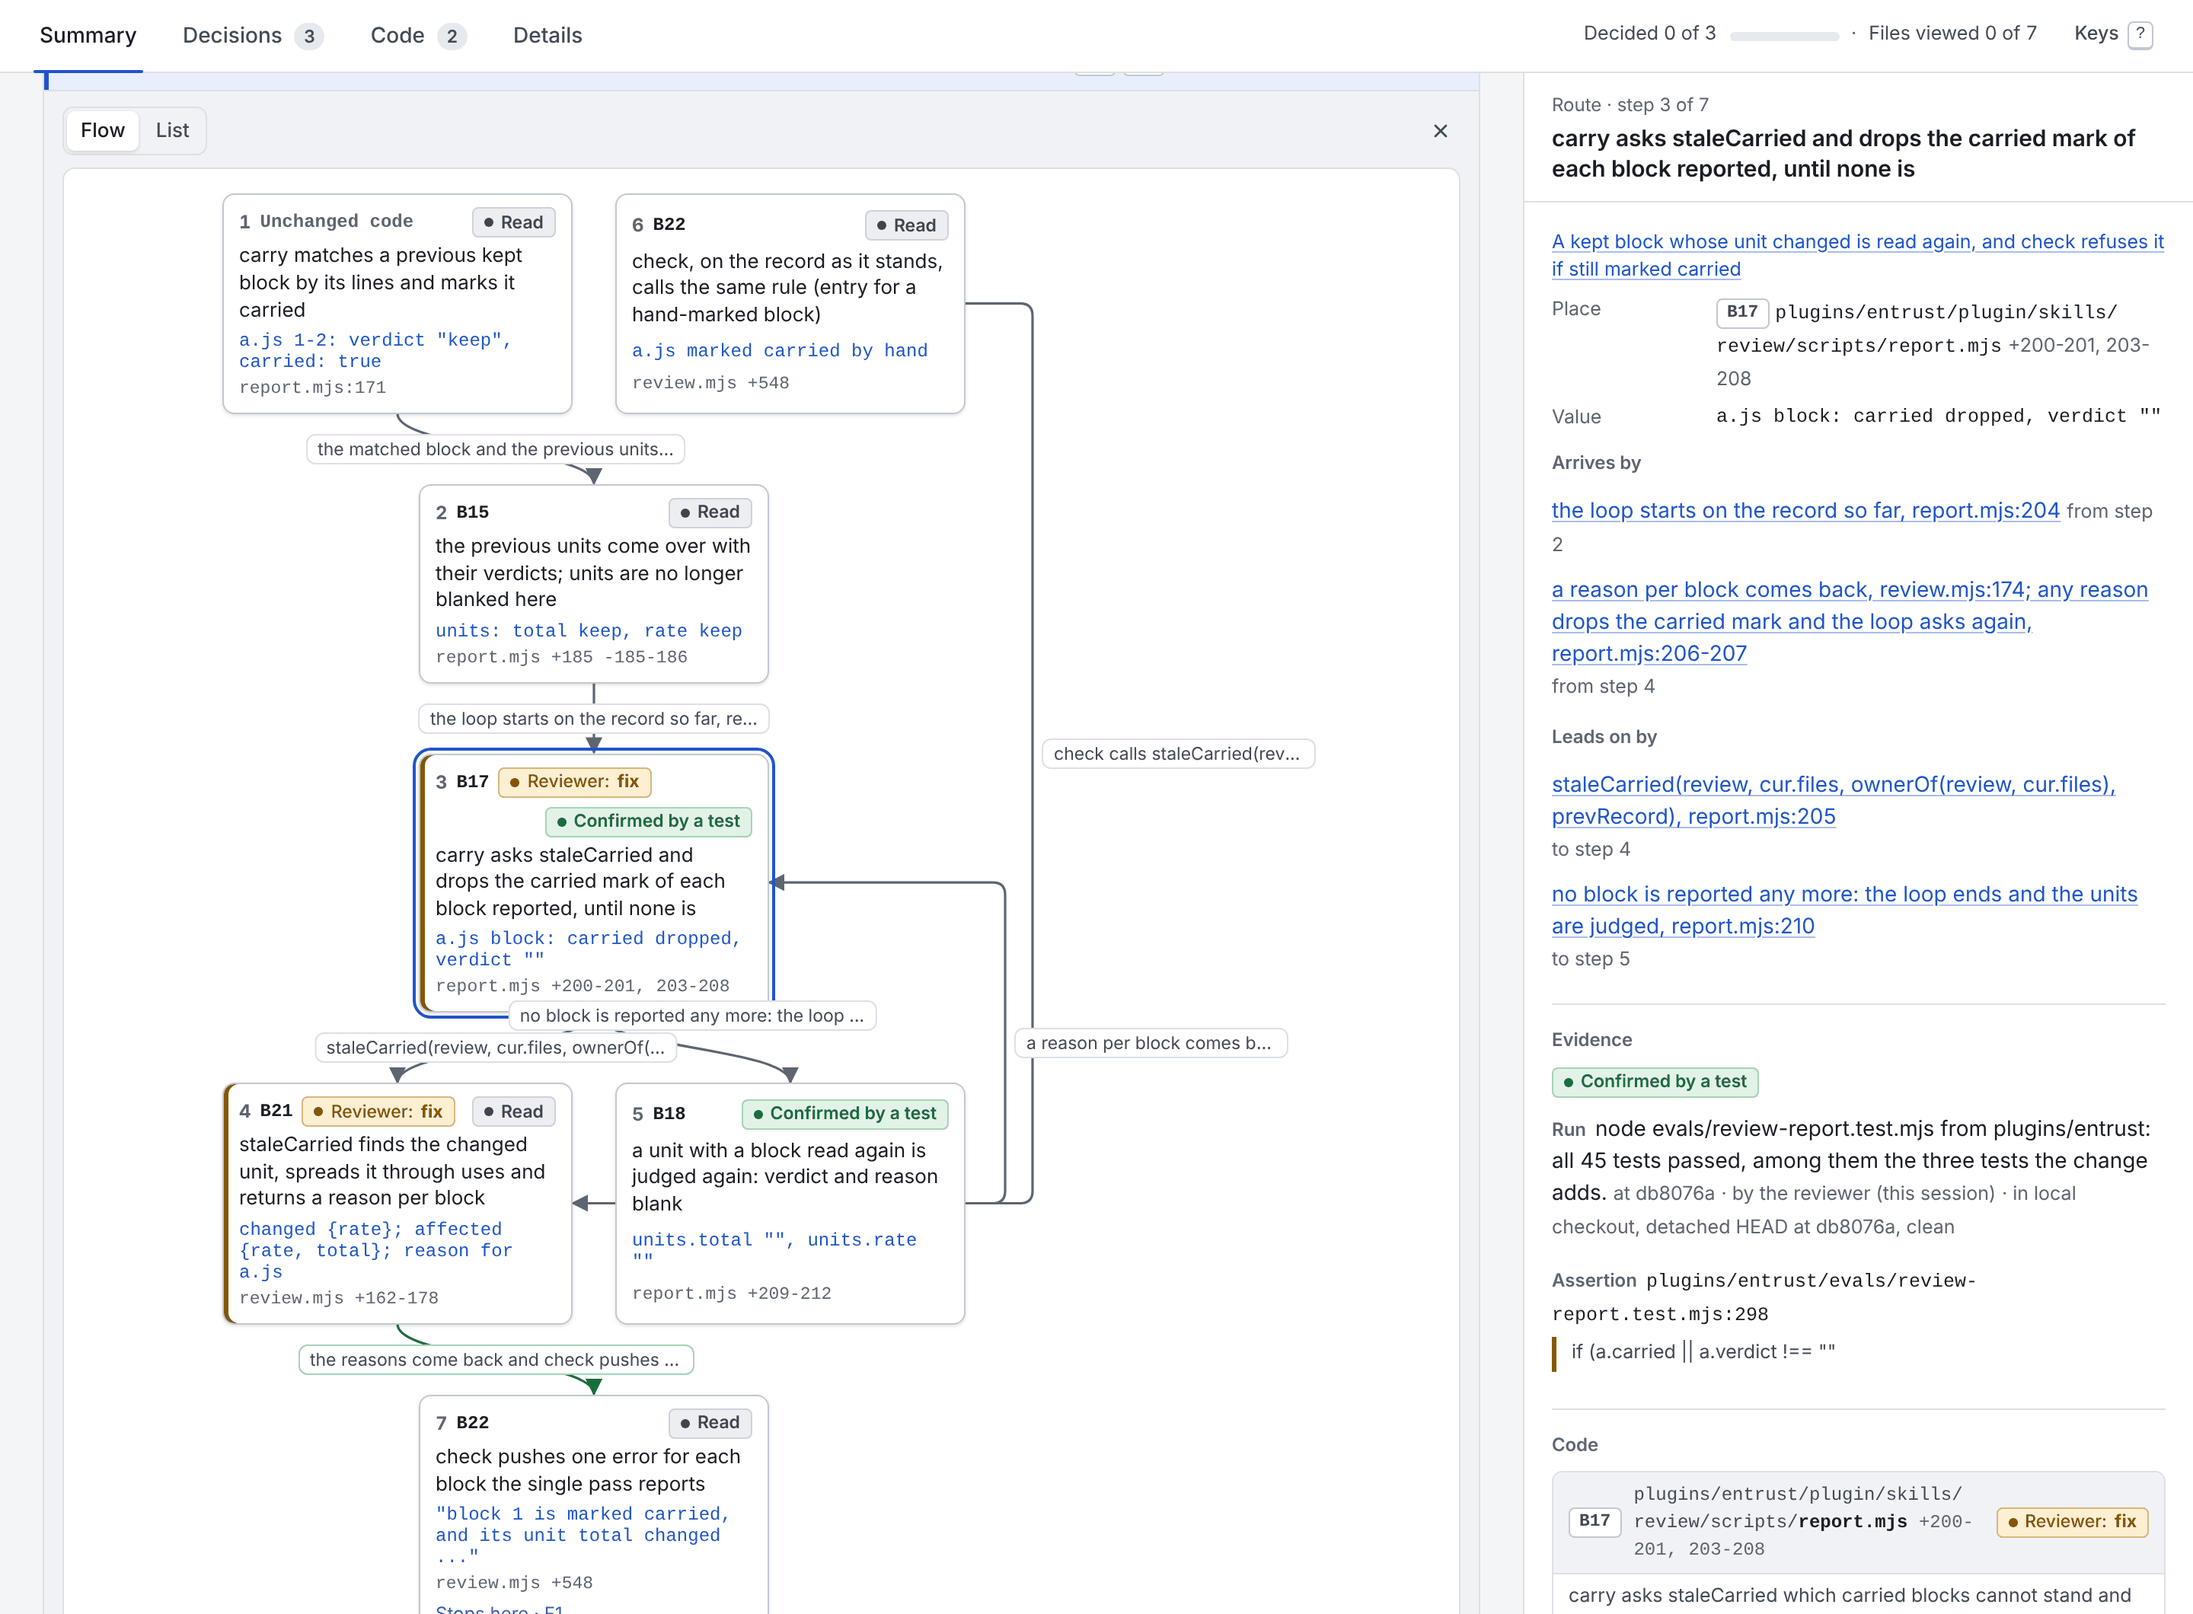
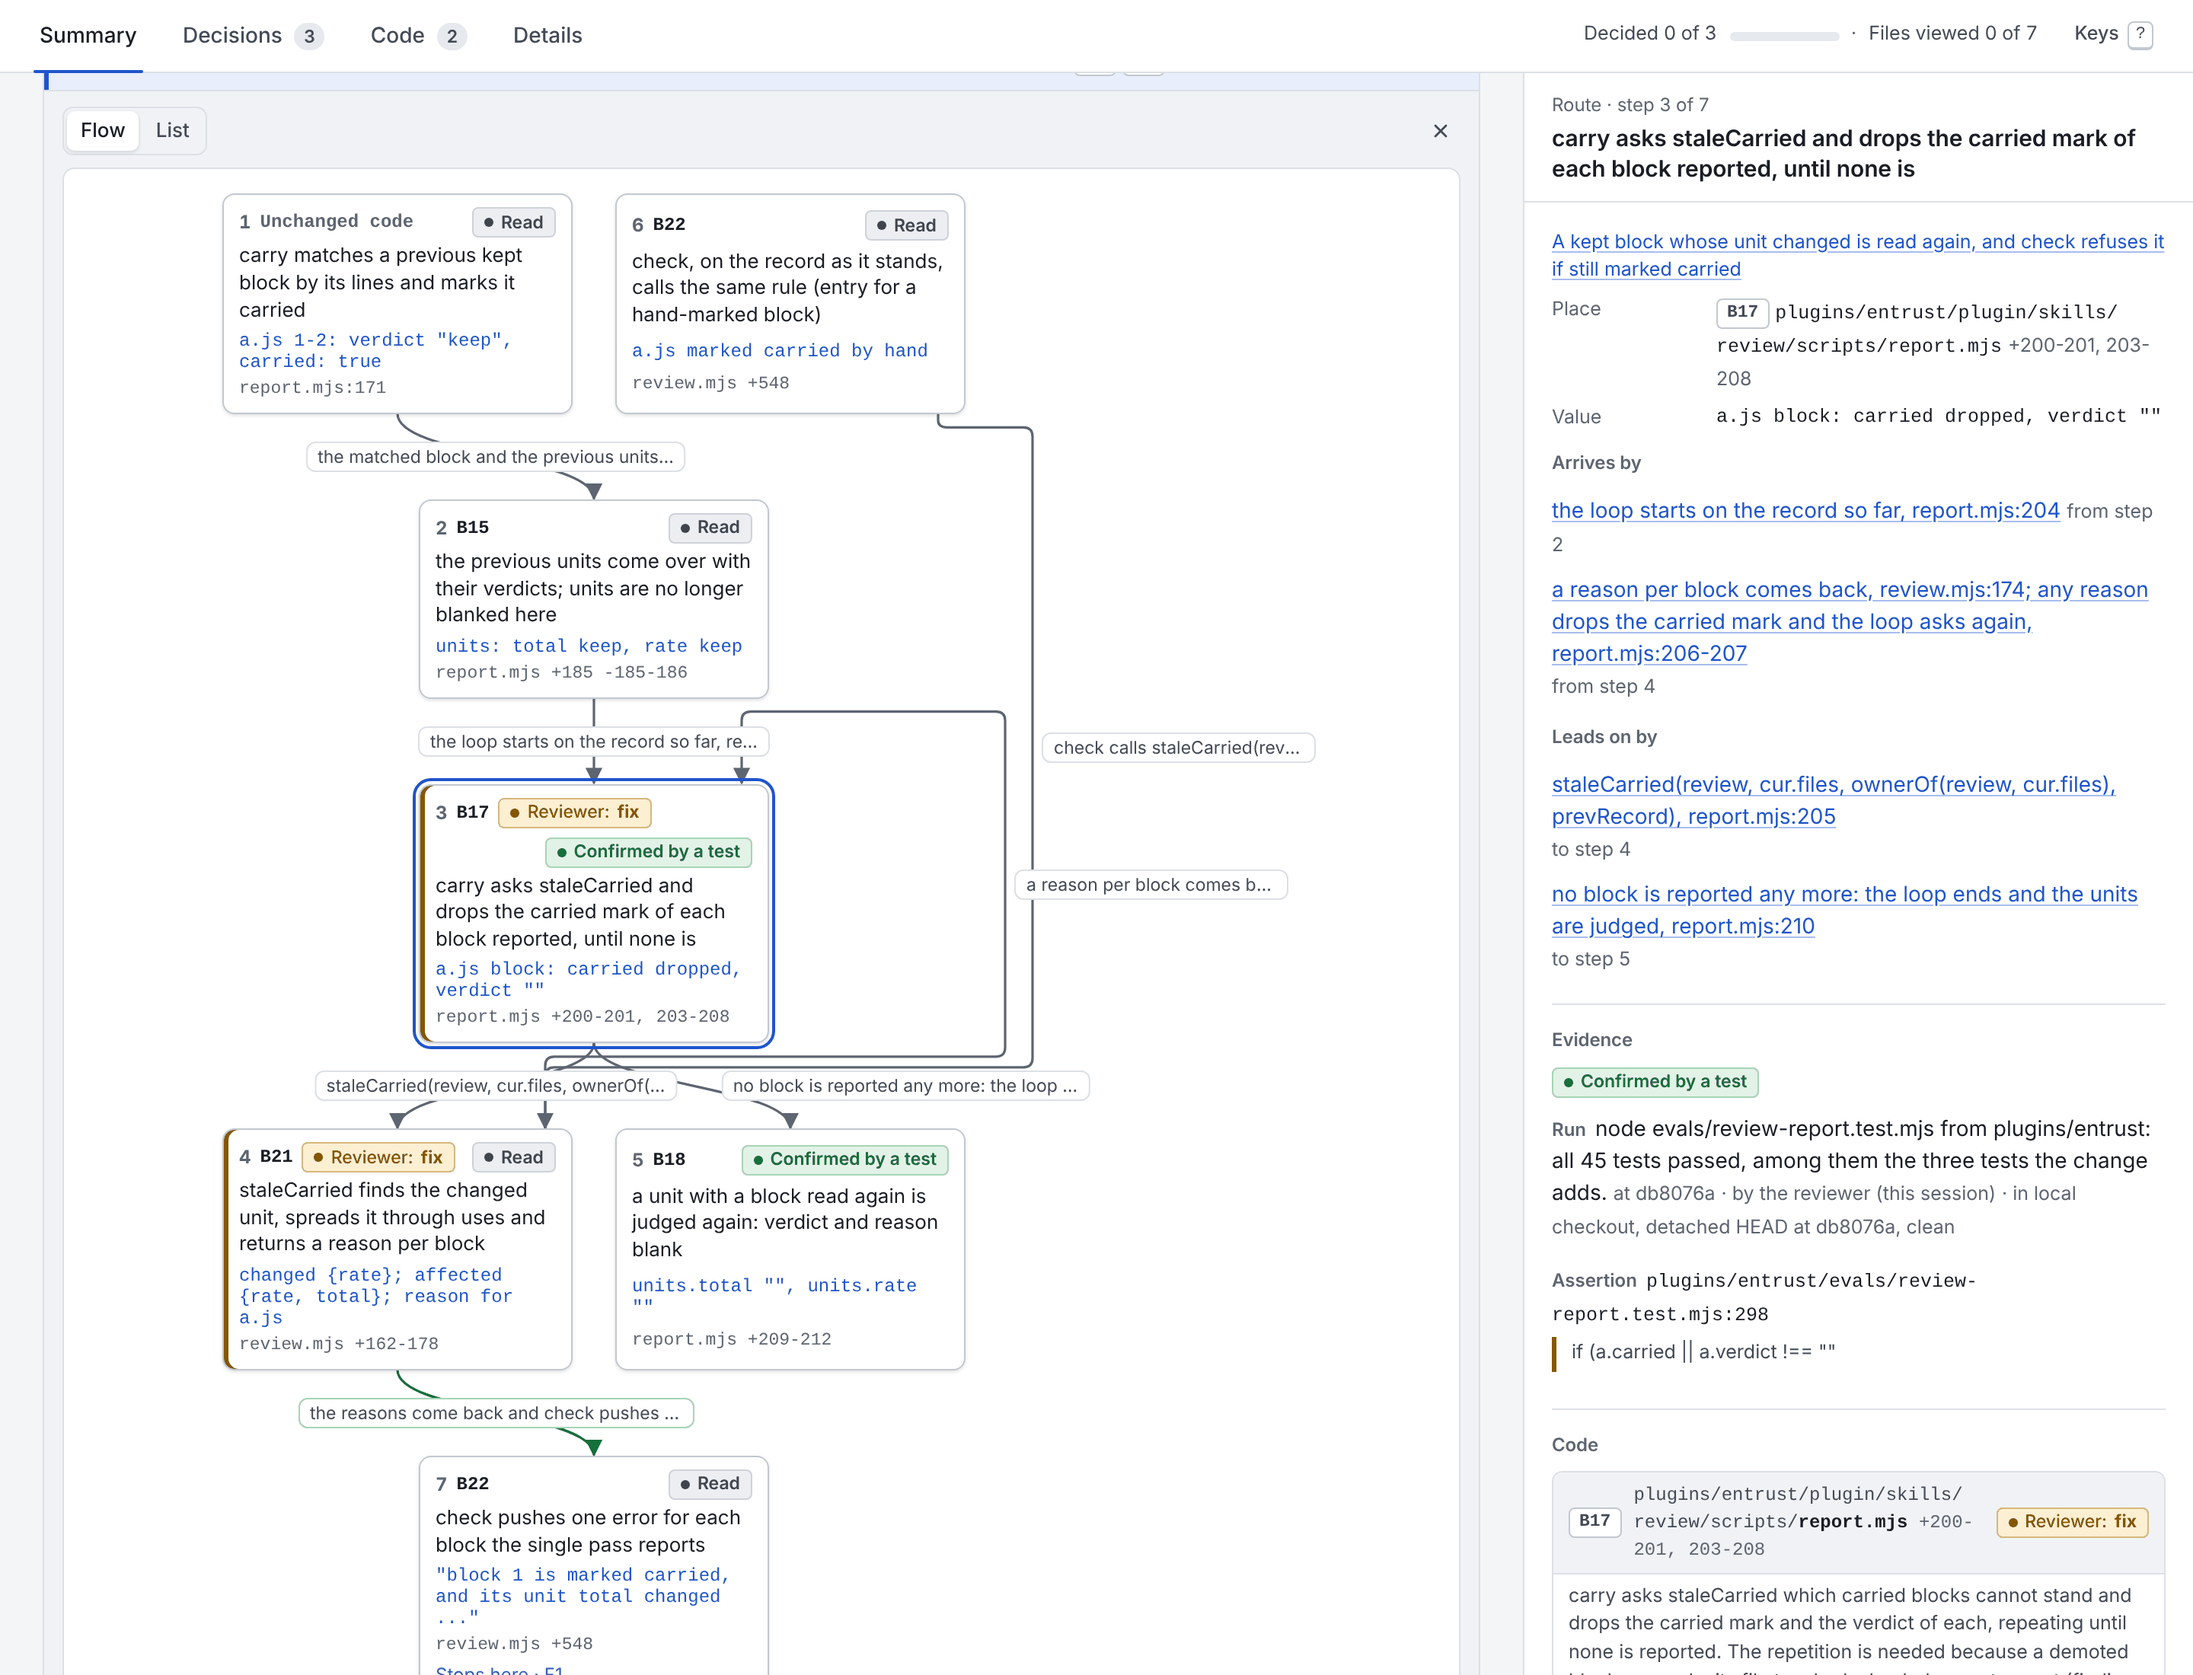
entrust:review: run a flow's edges that skip a row or go back only through the empty gaps, from a step's top or bottom into its target's top, and a state's loop over its own top, so no edge touches a step but its two ends — on the first real review 6→4 read as 6→5 — with a test that samples every ed

diff --git a/plugins/entrust/plugin/skills/review/scripts/page/runtime.js b/plugins/entrust/plugin/skills/review/scripts/page/runtime.js
@@ -643,41 +643,59 @@ function drawFlow(i) {
   const rect = (k) => { const e = $(`.flow-n[data-k="${k}"]`, canvas).getBoundingClientRect(); return { l: e.left - box.left, t: e.top - box.top, r: e.right - box.left, b: e.bottom - box.top, cx: (e.left + e.right) / 2 - box.left, cy: (e.top + e.bottom) / 2 - box.top }; };
   const own = (l) => testedHere(l) ? "ok" : l.question !== null ? "q" : "plain";
   const cls = (e) => { const cs = e.js.map((j) => own(r.links[j])); return !cs.length ? "plain" : cs.every((c) => c === "ok") ? "ok" : cs.includes("ok") ? "mixed" : cs.includes("q") ? "q" : "plain"; };
-  // (3) an edge that skips a row, goes back or stays runs at the side, beyond every step in the rows it spans
+  // An edge between neighbouring rows runs down the gap between them. One that skips a row or goes back runs through
+  // the empty gaps only: out of its step's top or bottom, along the gap, down or up beyond every step in the rows it
+  // spans, along the gap above its target and into the target's top — so it touches no step but its two ends and can
+  // never seem to lead into a step it passes. A state that stays loops over its own top.
   const edges = flowEdges(r), rank = [];
   flowRows(r, edges).forEach((row, x) => row.forEach((k) => { rank[k] = x; }));
-  const aside = (e) => e.back || rank[e.to] - rank[e.from] > 1;
-  // room at the right for the edges at the side and their words
-  canvas.style.paddingRight = edges.some((e) => aside(e) || e.self) ? `${200 + 18 * edges.filter(aside).length}px` : "72px";
-  const nodes = $$(".flow-n", canvas).map((el) => ({ k: +el.dataset.k, ...rect(+el.dataset.k) }));
+  const aside = (e) => !e.self && (e.back || rank[e.to] - rank[e.from] > 1);
+  canvas.style.paddingRight = edges.some(aside) ? `${200 + 18 * edges.filter(aside).length}px` : "72px";
+  canvas.style.paddingTop = edges.some((e) => e.self || (aside(e) && rank[e.to] === 0)) ? "44px" : "";
+  const nodes = $$(".flow-n", canvas).map((el) => ({ k: +el.dataset.k, ...rect(+el.dataset.k) })), rowTop = [], rowBottom = [];
+  for (const nd of nodes) { rowTop[rank[nd.k]] = Math.min(rowTop[rank[nd.k]] ?? Infinity, nd.t); rowBottom[rank[nd.k]] = Math.max(rowBottom[rank[nd.k]] ?? -Infinity, nd.b); }
   const reach = (e) => Math.max(...nodes.filter((nd) => rank[nd.k] >= Math.min(rank[e.from], rank[e.to]) && rank[nd.k] <= Math.max(rank[e.from], rank[e.to])).map((nd) => nd.r));
+  // the gap above row g, from the row before's bottom (or the canvas's top) to the row's top, in lanes from its top
+  const lanes = [], lane = (g) => { const top = g === 0 ? 0 : rowBottom[g - 1], n = lanes[g] = (lanes[g] ?? -1) + 1; return Math.min(rowTop[g] - 6, top + 9 + 7 * n); };
+  const portOut = [], portIn = [], port = (list, k, nd) => nd.r - 18 - 14 * (list[k] = (list[k] ?? -1) + 1);
+  const ortho = (pts) => {
+    let d = `M${pts[0][0]},${pts[0][1]}`;
+    for (let k = 1; k < pts.length - 1; k++) {
+      const [px, py] = pts[k - 1], [cx, cy] = pts[k], [nx, ny] = pts[k + 1], q = (a, b) => Math.sign(b - a) * Math.min(6, Math.abs(b - a) / 2);
+      d += ` L${cx - q(px, cx)},${cy - q(py, cy)} Q${cx},${cy} ${cx + q(cx, nx)},${cy + q(cy, ny)}`;
+    }
+    return `${d} L${pts.at(-1)[0]},${pts.at(-1)[1]}`;
+  };
   let side = 0, paths = "", labels = "";
   for (const e of edges) {
     const a = rect(e.from), b = rect(e.to), c = cls(e);
-    let d, x, y;
-    if (e.self) { d = `M${a.r},${a.cy - 10} C${a.r + 40},${a.cy - 30} ${a.r + 40},${a.cy + 30} ${a.r},${a.cy + 10}`; x = a.r + 34; y = a.cy; }
+    let d, x, y, centred = true;
+    // a state that stays loops over the left of its top, clear of the edges that leave and enter at its middle and right
+    if (e.self) { const x1 = a.l + 22, x2 = a.l + 52; d = `M${x1},${a.t} C${x1},${a.t - 30} ${x2},${a.t - 30} ${x2},${a.t}`; x = (x1 + x2) / 2; y = a.t - 30; }
     else if (aside(e)) {
-      const sx = reach(e) + 26 + 18 * side++, v = Math.sign(b.cy - a.cy) || 1, q = 8;
-      d = `M${a.r},${a.cy} L${sx - q},${a.cy} Q${sx},${a.cy} ${sx},${a.cy + v * q} L${sx},${b.cy - v * q} Q${sx},${b.cy} ${sx - q},${b.cy} L${b.r},${b.cy}`; x = sx; y = (a.cy + b.cy) / 2;
+      const sx = reach(e) + 26 + 18 * side++, ex = port(portOut, e.from, a), tx = port(portIn, e.to, b);
+      const out = e.back ? [ex, a.t] : [ex, a.b], y1 = e.back ? lane(rank[e.from]) : lane(rank[e.from] + 1), y2 = lane(rank[e.to]);
+      d = ortho([out, [ex, y1], [sx, y1], [sx, y2], [tx, y2], [tx, b.t]]); x = sx; y = (y1 + y2) / 2; centred = false;
     }
     else { const dy = (b.t - a.b) / 2; d = `M${a.cx},${a.b} C${a.cx},${a.b + dy} ${b.cx},${b.t - dy} ${b.cx},${b.t}`; x = (a.cx + b.cx) / 2; y = (a.b + b.t) / 2; }
-    paths += `<path class="fe ${c}" d="${d}" marker-end="url(#fa-${i}-${c})"/>`;
+    paths += `<path class="fe ${c}" d="${d}" data-from="${e.from}" data-to="${e.to}" marker-end="url(#fa-${i}-${c})"/>`;
     const via = e.js.length ? r.links[e.js[0]].via : r.steps[e.to].via;
     if (!via) continue;
-    // words on an edge at the side, or on a loop, start at its line instead of centring on it, so they cover no step
-    const words = `${via.length > 42 ? via.slice(0, 40) + "…" : via}${e.js.length > 1 ? ` · +${e.js.length - 1}` : ""}`, at = `left:${x}px;top:${y}px`, sideCls = e.self || aside(e) ? " side" : "";
+    // words on an edge at the side start at its line instead of centring on it, so they cover no step
+    const words = `${via.length > 42 ? via.slice(0, 40) + "…" : via}${e.js.length > 1 ? ` · +${e.js.length - 1}` : ""}`, at = `left:${x}px;top:${y}px`, sideCls = centred ? "" : " side";
     labels += e.js.length ? `<button class="flow-lbl${sideCls} ${own(r.links[e.js[0]])}" data-act="flow-link" data-route="${i}" data-j="${e.js[0]}" style="${at}" title="${esc(via)}" aria-current="${e.js.some((j) => S.sel.summary === `route:${i}:l:${j}`)}">${esc(words)}</button>`
       : `<span class="flow-lbl${sideCls}" style="${at}" title="${esc(via)}">${esc(words)}</span>`;
   }
   svgEl.setAttribute("width", canvas.scrollWidth); svgEl.setAttribute("height", canvas.scrollHeight);
   svgEl.innerHTML = `<defs>${["plain", "ok", "mixed", "q"].map((c) => `<marker id="fa-${i}-${c}" viewBox="0 0 10 10" refX="9" refY="5" markerWidth="7" markerHeight="7" orient="auto-start-reverse"><path class="fm ${c}" d="M0,0 L10,5 L0,10 z"/></marker>`).join("")}</defs>${paths}`;
   canvas.insertAdjacentHTML("beforeend", labels);
-  // a label keeps off the steps and off the labels placed before it
+  // a label keeps off the steps and off the labels placed before it: moved up or down a little, then along its gap
   const placed = $$(".flow-n", canvas).map((el) => el.getBoundingClientRect());
   for (const el of $$(".flow-lbl", canvas)) {
-    const top = parseFloat(el.style.top), clear = (r) => !placed.some((p) => r.left < p.right && r.right > p.left && r.top < p.bottom && r.bottom > p.top);
-    for (const dy of [0, -21, 21, -11, 11, -42, 42]) { el.style.top = `${top + dy}px`; if (clear(el.getBoundingClientRect())) break; }
-    if (!clear(el.getBoundingClientRect())) el.style.top = `${top}px`;
+    const top = parseFloat(el.style.top), left = parseFloat(el.style.left), clear = (r) => !placed.some((p) => r.left < p.right && r.right > p.left && r.top < p.bottom && r.bottom > p.top);
+    const xs = el.classList.contains("side") ? [0, 40, 80] : [0, -70, 70, -140, 140], moves = xs.flatMap((dx) => [0, -12, 12, -22, 22].map((dy) => [dx, dy]));
+    const fits = moves.find(([dx, dy]) => { el.style.left = `${left + dx}px`; el.style.top = `${top + dy}px`; return clear(el.getBoundingClientRect()); }) ?? [0, 0];
+    el.style.left = `${left + fits[0]}px`; el.style.top = `${top + fits[1]}px`;
     placed.push(el.getBoundingClientRect());
   }
 }

diff --git a/plugins/entrust/plugin/skills/review/scripts/page/page.css b/plugins/entrust/plugin/skills/review/scripts/page/page.css
@@ -219,7 +219,7 @@ li.route-flow { border-top: 1px solid var(--border); padding: 10px 12px 12px; ba
 .flow-head { display: flex; align-items: center; gap: 10px; }
 .flow-head .x { margin-left: auto; }
 .flow-scroll { overflow-x: auto; min-width: 0; border: 1px solid var(--border); border-radius: 8px; background: var(--surface); }
-.flow-canvas { position: relative; display: flex; flex-direction: column; gap: 46px; padding: 16px 72px 16px 16px; min-width: max-content; }
+.flow-canvas { position: relative; display: flex; flex-direction: column; gap: 56px; padding: 16px 72px 16px 16px; min-width: max-content; }
 .flow-row { display: flex; gap: 28px; justify-content: center; }
 .flow-n { appearance: none; position: relative; z-index: 1; display: grid; gap: 4px; width: 230px; text-align: left; font: inherit; color: var(--text);
   background: var(--surface); border: 1px solid var(--border-strong); border-radius: 8px; padding: 8px 10px 9px; cursor: pointer; box-shadow: var(--shadow); }

diff --git a/plugins/entrust/CHANGELOG.md b/plugins/entrust/CHANGELOG.md
@@ -35,9 +35,10 @@ forensics remain in the repository references and release notes.
 ### Flows on the page
 
 - A route opens under its row in Summary › How it works as a flow the page lays out from the record's order and
-  links: each step in a row below the steps that lead to it; a link that skips a row or goes back runs at the side,
-  beyond every step it passes; a state that stays is a loop; each link's words sit on its edge, kept apart from the
-  others. An edge of several triggers is green only when every one is confirmed by a test on this code, dotted when
+  links: each step in a row below the steps that lead to it; a link that skips a row or goes back runs through the
+  empty gaps between rows and beside them, from its step's top or bottom into its target's top, so no edge touches a
+  step but its own two; a state that stays loops over its own top; each link's words sit on its edge, clear of the
+  steps and of each other. An edge of several triggers is green only when every one is confirmed by a test on this code, dotted when
   some are. Selecting a step shows beside it its place, value, code — the block's excerpt
   or the quoted line of unchanged code — and its evidence: read, or confirmed by a test with its run, who ran it and
   where, and the quoted assertion, or tested on other code when the run was not on the reviewed head; what was found

diff --git a/plugins/entrust/research/2026-11-28-review-flows/README.md b/plugins/entrust/research/2026-11-28-review-flows/README.md
@@ -82,8 +82,10 @@ fixed in advance: one reviewer, no checking agents, the full record and page, an
 - a run on other code was shown as tested here;
 - a `read` statement was listed as a run.
 
-**Still open.** An edge drawn at the side enters its step from the right, so it can pass behind a neighbour in the same
-row.
+**Fixed after the round.** An edge drawn at the side entered its step from the right, so it passed behind a
+neighbour in the same row: on this review, 6→4 read as 6→5. Such edges now run only through the empty gaps between
+rows and enter their target from the top. A test samples every edge and fails if one touches a step that is not its
+own end.
 
 The [trial-db8076a](trial-db8076a/) folder holds the record, its saved diff, the task, the plan and the test log.
 `report.mjs render trial-db8076a/review.json` draws its page. The page is shown in
